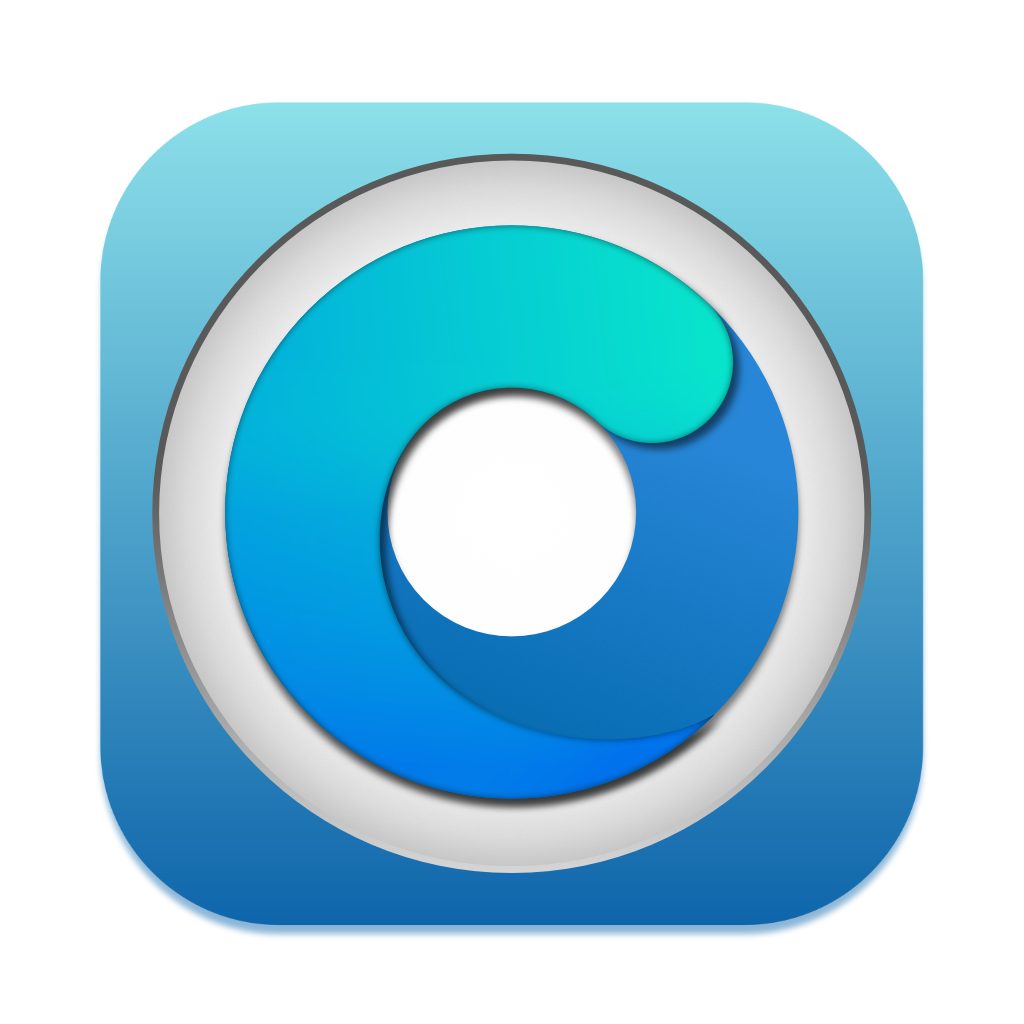
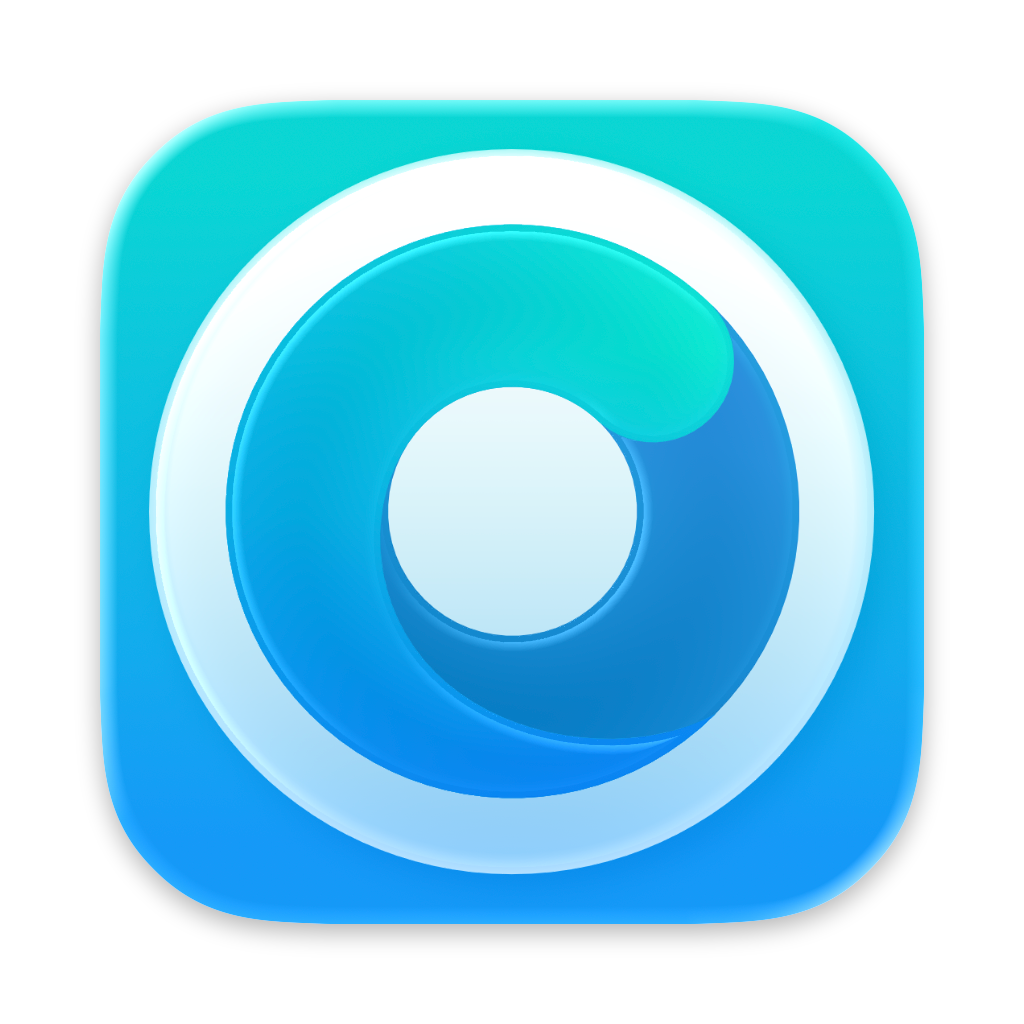
docs(UPDATE): fix homepage link, update OpenCore-Patcher image and update copyright

diff --git a/docs/README.md b/docs/README.md
@@ -23,5 +23,5 @@ features:
     details: "Unlock some newer features such as Sidecar, AirPlay to Mac, Night Shift, and Universal Control, even on natively supported models!"
   - title: A helpful community
     details: "Whether it's getting started or learning the specifics, you can always find answers with our amazing community of tinkerers, developers, and dreamers."
-footer: Copyright © Dortania 2020-2025
+footer: Copyright © Albert Müller 2020-2025
 ---
